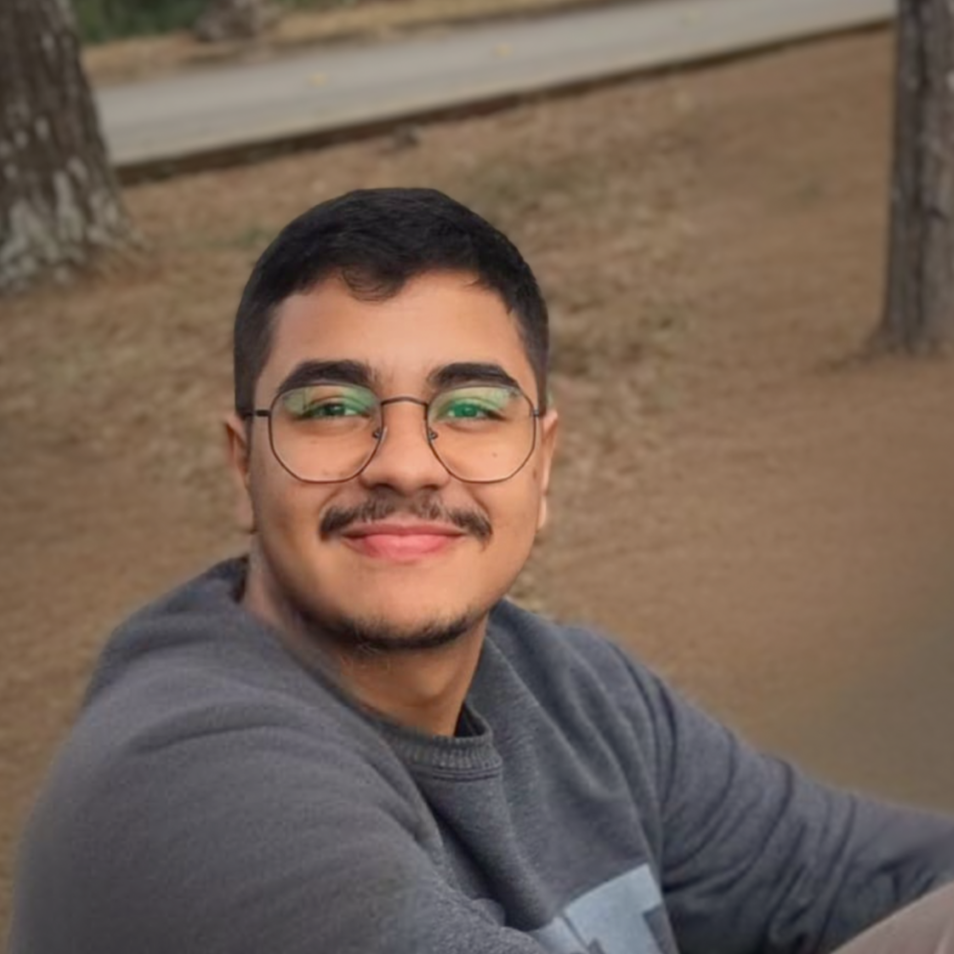
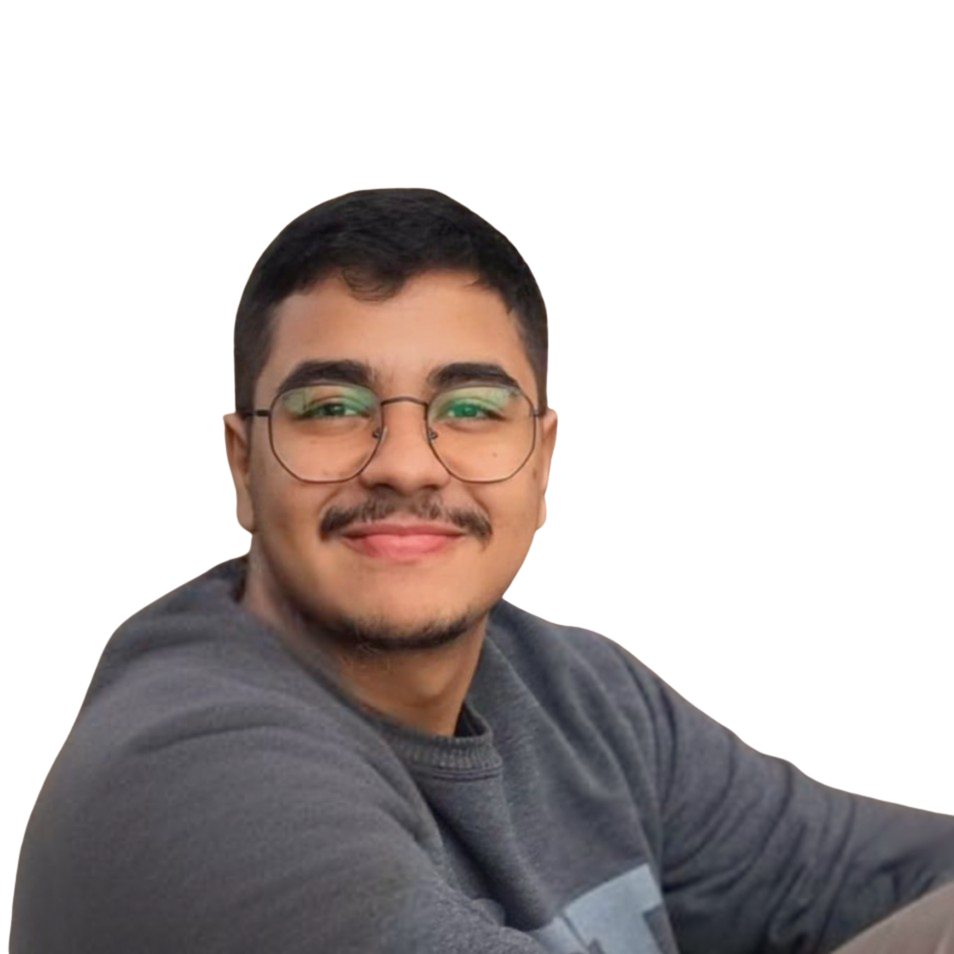
feat: finish about section

diff --git a/src/pages/About/index.jsx b/src/pages/About/index.jsx
@@ -1,23 +1,63 @@
-import { Title } from '../../components/Title/index.jsx'
-import styles from './styles.module.css'
-import profile from '../../assets/profile.png'
+import { Title } from "../../components/Title/index.jsx";
+import styles from "./styles.module.css";
+import profile from "../../assets/profile.png";
+
+let text = `Em constante busca por aprimoramento, sou um programador focado na resolução de problemas de forma proativa, com uma forte capacidade de aprendizado contínuo.
+Procuro por uma posição em que eu possa utilizar minhas habilidades técnicas e colaborar para o meu desenvolvimento e para o sucesso da equipe.`;
+
+import { PiInstagramLogoLight } from "react-icons/pi";
+import { PiLinkedinLogoLight } from "react-icons/pi";
+import { PiGithubLogoLight } from "react-icons/pi";
+
+import { HiOutlineAcademicCap } from "react-icons/hi2";
+import { FaLaptopCode } from "react-icons/fa";
+import { IoPersonSharp } from "react-icons/io5";
 
 export const About = () => {
   return (
     <div className={styles.container} id="sobre">
       <section>
-        <img className={styles.avatar} src={profile} />
-        <h3>Sobre mim</h3>
-        <p>
-        Quando criança, minha mãe me presenteou com um carrinho de controle remoto. Não foi dois dias inteiros até eu o desmontar com a justificativa de: "mãe, só queria ver o que tinha dentro dele que o fazia andar". Assim, sempre fui curioso e determinado a descobrir o motivo das coisas. 
+        <div className={styles.intro}>
+          <div className={styles.title}>
+            <div>
+              <h1>João Pedro Martins Cruz</h1>
+              <h3>Desenvolvedor de Software</h3>
+            </div>
+          </div>
+          <img className={styles.avatar} src={profile} />
+        </div>
 
-Isso ao somar-se com o meu fascínio pela tecnologia e pela criação de novas coisas, me trouxe até os caminhos do desenvolvimento, onde me encontro. Atualmente, curso Ciência da Computação com um olhar especial pelos ramos multidisciplinares que a tecnologia possui.
+        <div className={styles.navigations}>
+          <button>
+            <IoPersonSharp />
+          </button>
+          <button>
+            <HiOutlineAcademicCap />
+          </button>
+          <button>
+            <FaLaptopCode />
+          </button>
+        </div>
 
-Possuo um domínio maior pelo desenvolvimento front-end, com experiência nas tecnologias da Web, Javascript, frameworks amplamente utilizados e bibliotecas como ReactJS. Além disso, continuo me aprimorando e buscando conhecimentos em outros ramos da área, como por exemplo, no Java para backend e ReactNative para o desenvolvimento Mobile. 
-
-Dessa forma, sigo me desafiando e complementando o meu leque de conhecimentos para uma maior capacitação e qualificação todos os dias.
-        </p>
+        <div className={styles.aboutSection}>
+          <span>Sobre Mim:</span>
+          <p>{text}</p>
+          <div className={styles.buttonsArea}>
+            <button>
+              <PiInstagramLogoLight />
+              Instagram
+            </button>
+            <button>
+              <PiLinkedinLogoLight />
+              Linkedin
+            </button>
+            <button>
+              <PiGithubLogoLight />
+              GitHub
+            </button>
+          </div>
+        </div>
       </section>
     </div>
-  )
-}
+  );
+};

diff --git a/src/pages/About/styles.module.css b/src/pages/About/styles.module.css
@@ -1,22 +1,153 @@
 .container {
     scroll-snap-align: start;
-    width: 100vw;
-    height: 100vh;
-    background-color: var(--bg-dark);
-
-    padding: 100px;
+    min-width: 100vw;
+    min-height: 100vh;
+    padding-top: 100px;
+    background-color: #1c1c1c;
     color: var(--txt);
 }
 
 section {
+    background: var(--bg-dark);
+    width: clamp(300px, 95%, 1200px);
+    min-height: 80%;
+    margin: auto;
+    border-radius: 35px;
     position: relative;
-    border: 1px solid var(--secondary);
-    padding: 15px;
-    border-radius: 25px;
+    display: flex;
 }
 
-.avatar {
-    width: clamp(30px, 80%, 150px);
+.intro .title {
+    position: absolute;
+    top: 50px;
+    left: 75px;
+    width: calc(100% - 100px);
+    display: flex;
+    flex-wrap: wrap;
+    justify-content: space-between;
+}
+
+.intro .title h1 {
+    font-weight: bold;
+    font-size: 2.5rem;
+}
+
+.intro .title h3 {
+    font-size: 1.5rem;
+}
+
+.intro {
+    border-radius: 35px 0px 0px 35px;
+    width: clamp(400px, 40%, 500px);
+    display: flex;
+    flex-direction: column;
+    justify-content: flex-end;
+    background: linear-gradient(-215deg, #06172c 20%, #352a24);
+}
+
+
+.aboutText span {
+    font-size: 1.2rem;
+    font-weight: bold;
+}
+
+.aboutText p {
+    font-size: 0.85rem;
+}
+
+.intro img {
+    width: 100%;
+    background: transparent;
+    filter: drop-shadow(-1px -1px 10px #121b28ef) contrast(1.05) brightness(0.8) opacity(0.95) saturate(1.05);
+}
+
+.aboutSection {
+    width: 40%;
+    padding: 10px 25px;
+    display: flex;
+    flex-direction: column;
+    justify-content: flex-end;
+    gap: 10px;
+}
+
+.aboutSection span {
+    font-weight: bold;
+    font-size: 1.2rem;
+}
+
+.buttonsArea {
+    display: flex;
+    gap: 10px;
+}
+
+.container button {
+    display: flex;
+    align-items: center;
+    gap: 5px;
+    font-size: 0.9rem;
+    border: none;
+    border-radius: 10px;
+    padding: 10px;
+    background: linear-gradient(-85deg, rgb(159, 159, 159), #101010, #272727);
+    background-size: 500%;
+    background-position: 35%;
+    color: var(--txt);
+    transition: 1s all;
+    
+}
+
+.container button:hover {
+    color: #101010;
+    background-position: 100%;
+}
+
+.navigations {
+    position: absolute;
+    top: 50px;
+    right: 50px;
+    padding: 10px 25px;
+    display: flex;
+    justify-content: center;
+    flex-direction: column;
+    gap: 10px;
+}
+
+.navigations button {
+    width: 50px;
     aspect-ratio: 1;
     border-radius: 50%;
+    display: grid;
+    place-items: center;
+    font-size: 1.15rem;    
+}
+
+
+@media screen and (width < 800px){
+    section {
+        display: block;
+    }
+
+    section .intro {
+        width: 100%;
+        height: 450px;
+        border-radius: 35px 35px 0 0;
+    }
+
+    .intro img {
+        align-self: flex-end;
+        border-radius: 5px;
+        max-width: 300px;
+    }
+
+    .navigations {
+        position: inherit;
+        inset: 0 0 0 0;
+        flex-direction: row;
+    }
+
+    .aboutSection {
+        display: inline-flex;
+        gap: 10px;
+        width: 100%;
+    }
 }

diff --git a/src/components/MainLayout/index.jsx b/src/components/MainLayout/index.jsx
@@ -11,7 +11,6 @@ export const MainLayout = ({ children }) => {
     { value:"Home", link: "#home", icon: <IoHome /> },
     { value: "Sobre mim", link: "#sobre", icon: <ImProfile /> },
     { value: "Projetos", link: "#projetos", icon: <FaLaptopCode /> },
-    { value: "Tecnologias", link: "#tech", icon: <ImProfile /> },
     { value: "Contato", link: "#contato", icon: <TiContacts /> },
   ];
 
